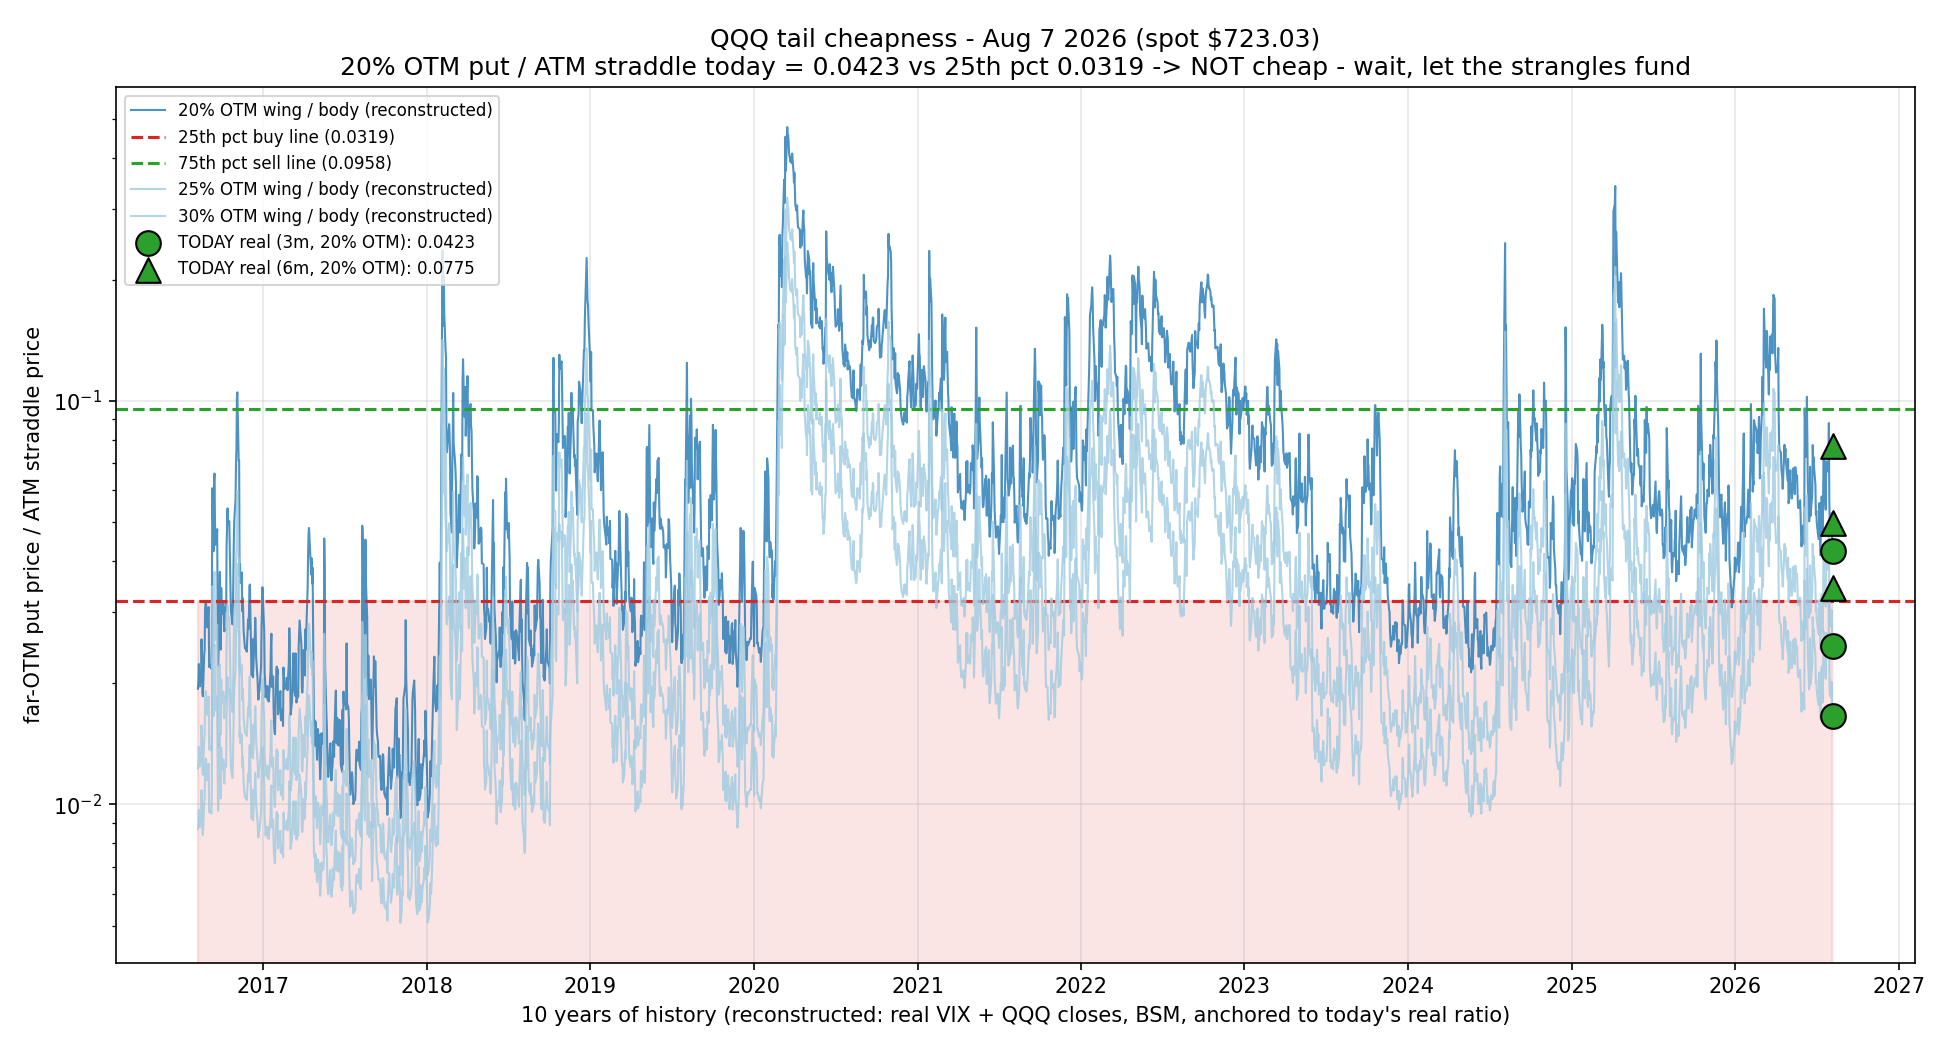
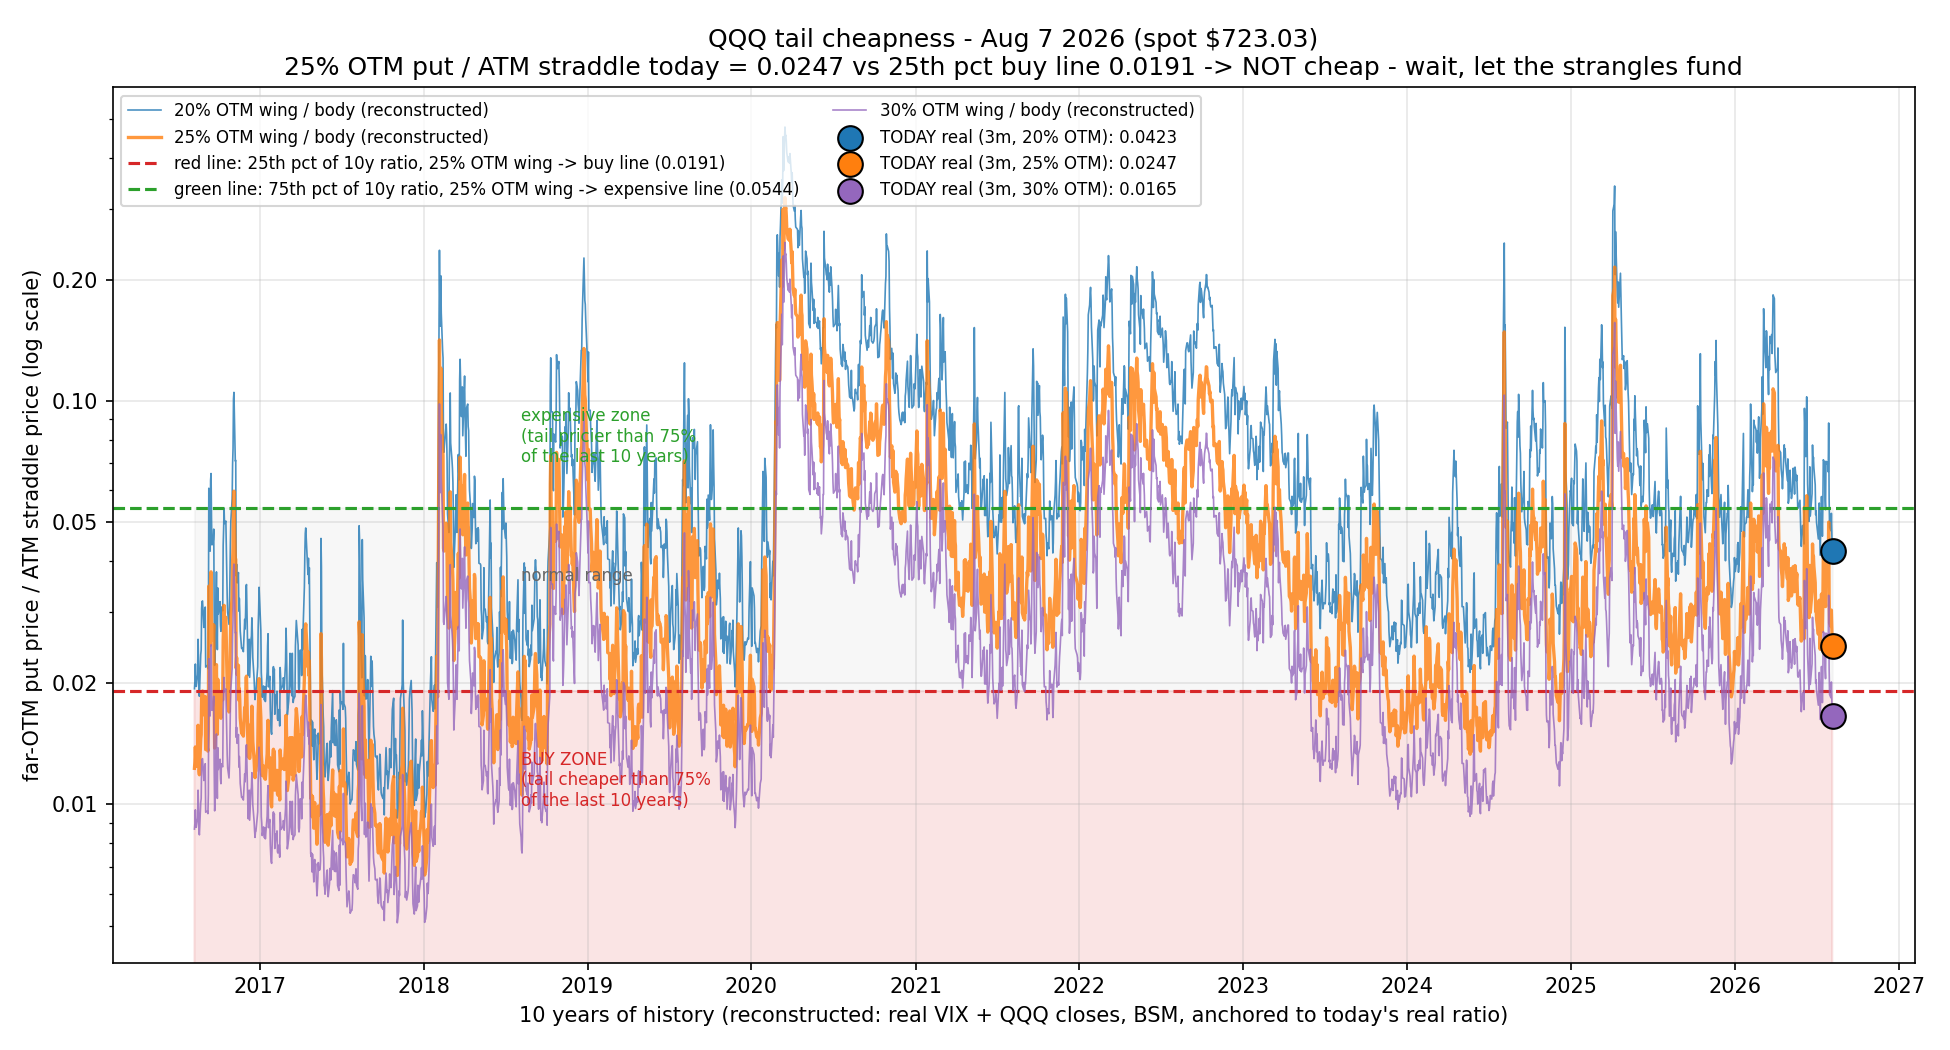
add plot pattern

diff --git a/fentu/pricingservices/tail_plot.py b/fentu/pricingservices/tail_plot.py
@@ -26,8 +26,10 @@ from py_vollib.black_scholes import black_scholes
 
 from fentu.pricingservices.tail_ratio import percentile
 
-MATURITIES = {"3m": 63, "6m": 126}  # trading days to expiry
+MATURITIES = {"3m": 63}  # trading days to expiry
 WING_LEVELS = [0.20, 0.25, 0.30]  # OTM fractions
+DECISION_LEVEL = 0.25  # the wing this plot decides on
+LEVEL_COLORS = {0.20: "#1f77b4", 0.25: "#ff7f0e", 0.30: "#9467bd"}
 
 
 def bs_call(spot, strike, vol, t_years, rate=0.0):
@@ -95,6 +97,8 @@ def historical_ratios(years=10):
     vix = yf.download("^VIX", start=start, end=end, progress=False)["Close"]
     qqq = yf.download("QQQ", start=start, end=end, progress=False)["Close"]
     dates = vix.index.intersection(qqq.index)
+    if len(dates) == 0:
+        raise RuntimeError("no overlapping VIX/QQQ history downloaded — check network and retry")
     vix = vix.loc[dates]
     qqq = qqq.loc[dates]
 
@@ -132,50 +136,53 @@ def plot_tail_cheapness(save_path="figures/tail_cheapness_aug7_2026.png"):
         series = [(d, r * anchor[("3m", pct)]) for d, p_, r in hist["3m"] if p_ == pct]
         dates = [d for d, r in series]
         vals = [r for d, r in series if math.isfinite(r)]
-        color = "#1f77b4" if pct == 0.20 else "#9ecae1"
-        ax.plot(dates, [r for d, r in series], lw=1.0, color=color, alpha=0.8, label=f"{int(pct*100)}% OTM wing / body (reconstructed)")
+        color = LEVEL_COLORS[pct]
+        lw = 1.6 if pct == DECISION_LEVEL else 0.8
+        ax.plot(dates, [r for d, r in series], lw=lw, color=color, alpha=0.8, label=f"{int(pct*100)}% OTM wing / body (reconstructed)")
 
-        if pct == 0.20:
+        if pct == DECISION_LEVEL:
             q25 = percentile(vals, 25)
             q75 = percentile(vals, 75)
-            ax.axhline(q25, color="#d62728", ls="--", lw=1.5, label=f"25th pct buy line ({q25:.4f})")
-            ax.axhline(q75, color="#2ca02c", ls="--", lw=1.5, label=f"75th pct sell line ({q75:.4f})")
+            ax.axhline(q25, color="#d62728", ls="--", lw=1.5, label=f"red line: 25th pct of 10y ratio, {int(pct*100)}% OTM wing -> buy line ({q25:.4f})")
+            ax.axhline(q75, color="#2ca02c", ls="--", lw=1.5, label=f"green line: 75th pct of 10y ratio, {int(pct*100)}% OTM wing -> expensive line ({q75:.4f})")
             ax.fill_between(dates, 0, q25, color="#d62728", alpha=0.12)
+            ax.fill_between(dates, q25, q75, color="#cccccc", alpha=0.15)
+            ax.text(dates[len(dates) // 5], q25 * 0.6, "BUY ZONE\n(tail cheaper than 75%\nof the last 10 years)", color="#d62728", fontsize=8, va="center")
+            ax.text(dates[len(dates) // 5], (q25 + q75) / 2, "normal range", color="#666666", fontsize=8, va="center")
+            ax.text(dates[len(dates) // 5], q75 * 1.5, "expensive zone\n(tail pricier than 75%\nof the last 10 years)", color="#2ca02c", fontsize=8, va="center")
 
-    for label, style in (("3m", "o"), ("6m", "^")):
-        q = quotes[label]
-        for pct in WING_LEVELS:
-            real_ratio = q["wing"][pct] / q["straddle"]
-            vals = [r * anchor[("3m", pct)] for d, p_, r in hist["3m"] if p_ == pct and math.isfinite(r)]
-            marker_color = "#d62728" if real_ratio < percentile(vals, 25) else "#2ca02c"
-            ax.scatter(
-                [date.today()],
-                [real_ratio],
-                marker=style,
-                s=140,
-                color=marker_color,
-                edgecolors="black",
-                zorder=5,
-                label=f"TODAY real ({label}, {int(pct*100)}% OTM): {real_ratio:.4f}" if pct == 0.20 else None,
-            )
+    for pct in WING_LEVELS:
+        real_ratio = quotes["3m"]["wing"][pct] / quotes["3m"]["straddle"]
+        ax.scatter(
+            [date.today()],
+            [real_ratio],
+            marker="o",
+            s=140,
+            color=LEVEL_COLORS[pct],
+            edgecolors="black",
+            zorder=5,
+            label=f"TODAY real (3m, {int(pct*100)}% OTM): {real_ratio:.4f}",
+        )
 
-    today_3m = quotes["3m"]["wing"][0.20] / quotes["3m"]["straddle"]
-    vals_3m = [r * anchor[("3m", 0.20)] for d, p_, r in hist["3m"] if p_ == 0.20 and math.isfinite(r)]
-    q25_3m = percentile(vals_3m, 25)
-    verdict = "CHEAP - buy the tail" if today_3m < q25_3m else "NOT cheap - wait, let the strangles fund"
+    today_ratio = quotes["3m"]["wing"][DECISION_LEVEL] / quotes["3m"]["straddle"]
+    vals_decision = [r * anchor[("3m", DECISION_LEVEL)] for d, p_, r in hist["3m"] if p_ == DECISION_LEVEL and math.isfinite(r)]
+    q25 = percentile(vals_decision, 25)
+    verdict = "CHEAP - buy the tail" if today_ratio < q25 else "NOT cheap - wait, let the strangles fund"
     ax.set_title(
         f"QQQ tail cheapness - Aug 7 2026 (spot ${quotes['3m']['spot']:.2f})\n"
-        f"20% OTM put / ATM straddle today = {today_3m:.4f} vs 25th pct {q25_3m:.4f} -> {verdict}"
+        f"{int(DECISION_LEVEL*100)}% OTM put / ATM straddle today = {today_ratio:.4f} vs 25th pct buy line {q25:.4f} -> {verdict}"
     )
-    ax.set_ylabel("far-OTM put price / ATM straddle price")
+    ax.set_ylabel("far-OTM put price / ATM straddle price (log scale)")
     ax.set_xlabel("10 years of history (reconstructed: real VIX + QQQ closes, BSM, anchored to today's real ratio)")
-    ax.legend(loc="upper left", fontsize=8)
     ax.set_yscale("log")
+    ax.set_yticks([0.01, 0.02, 0.05, 0.1, 0.2])
+    ax.get_yaxis().set_major_formatter(matplotlib.ticker.FormatStrFormatter("%.2f"))
+    ax.legend(loc="upper left", fontsize=8, ncol=2)
     ax.grid(alpha=0.3)
     fig.tight_layout()
     fig.savefig(save_path, dpi=150)
     print(f"saved {save_path}")
-    return save_path, today_3m, q25_3m
+    return save_path, today_ratio, q25
 
 
 if __name__ == "__main__":
